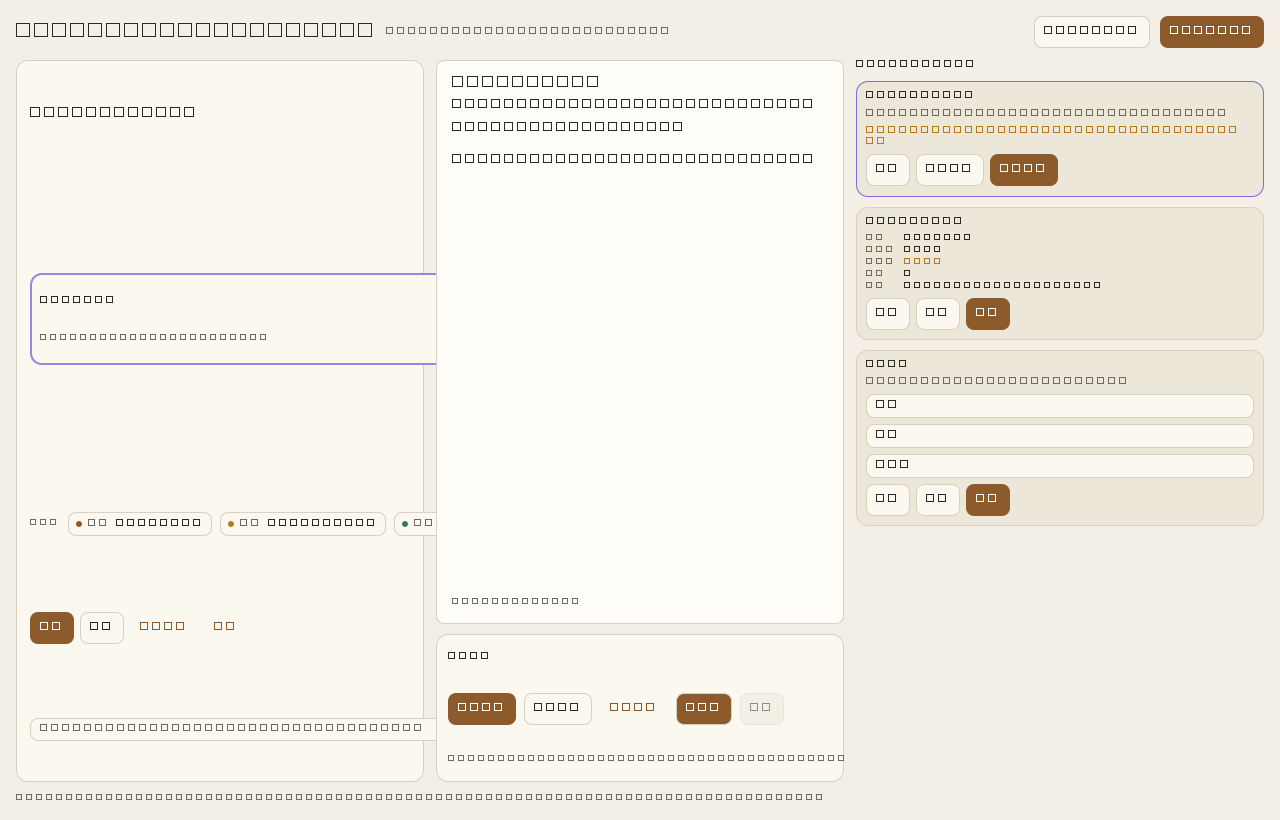
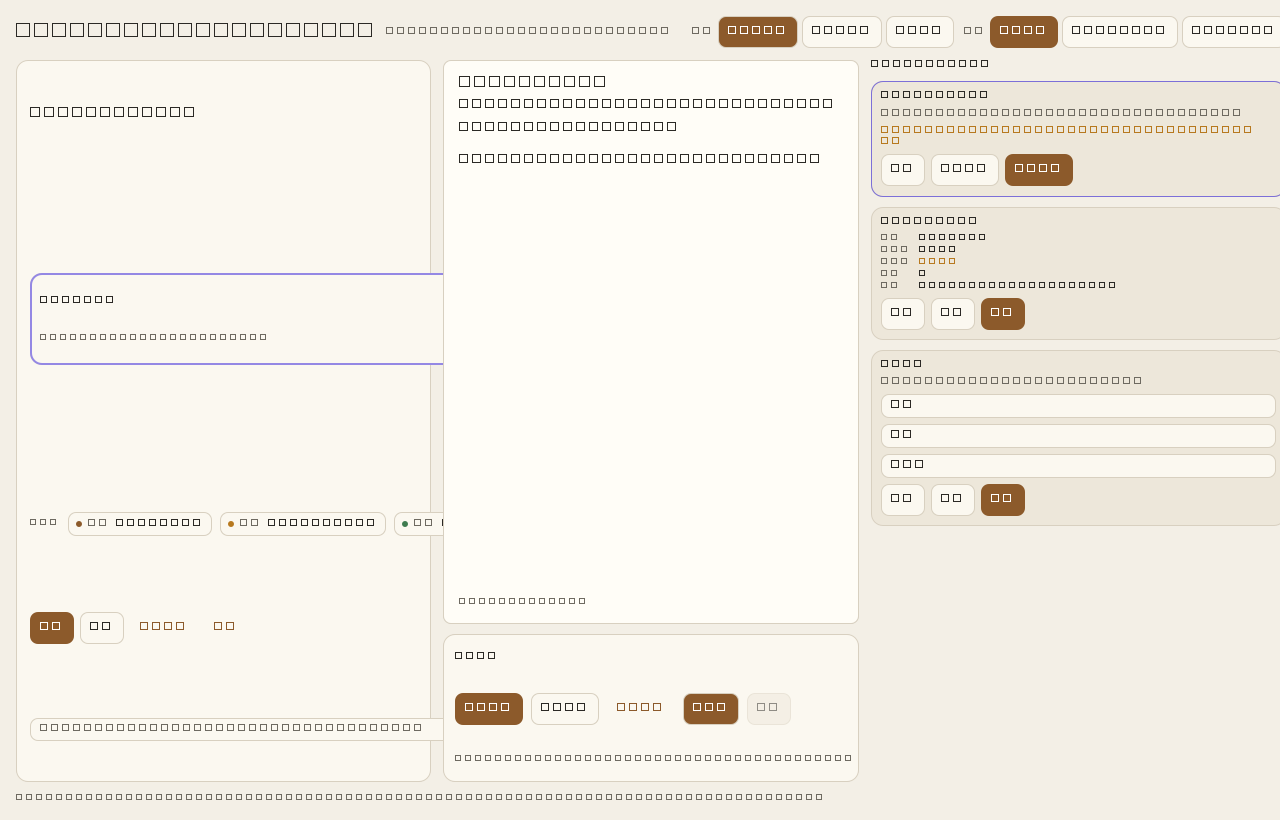
fix(frontend): make Visual V0 theme/quality switchers explicit segments
The quality control was a single small button in the lab header and easy to
miss. Replace theme and quality with three-segment button groups
(paper/light/dark, safe/balanced/premium) that show the active state; add
click-through tests and refresh screenshots.

diff --git a/src/ai_novel_studio/ui_qml/qml/VisualLab.qml b/src/ai_novel_studio/ui_qml/qml/VisualLab.qml
@@ -64,16 +64,43 @@ ApplicationWindow {
             Item {
                 Layout.fillWidth: true
             }
-            AppButton {
-                objectName: "labThemeButton"
-                text: "主题：" + Theme.themeName
-                onClicked: Theme.setTheme(Theme.nextThemeName())
+
+            // 主题：三段式切换（paper / light / dark）
+            RowLayout {
+                spacing: 4
+                Text {
+                    text: "主题"
+                    font.pixelSize: 11
+                    color: Theme.tokens.color.textSecondary
+                }
+                Repeater {
+                    model: ["paper", "light", "dark"]
+                    AppButton {
+                        objectName: "labTheme-" + modelData
+                        text: modelData
+                        selected: Theme.themeName === modelData
+                        onClicked: Theme.setTheme(modelData)
+                    }
+                }
             }
-            AppButton {
-                objectName: "labQualityButton"
-                text: "质量：" + Theme.visualQuality
-                primary: true
-                onClicked: Theme.setVisualQuality(Theme.nextVisualQuality())
+
+            // 质量档：三段式切换（Safe / Balanced / Premium）
+            RowLayout {
+                spacing: 4
+                Text {
+                    text: "质量"
+                    font.pixelSize: 11
+                    color: Theme.tokens.color.textSecondary
+                }
+                Repeater {
+                    model: ["safe", "balanced", "premium"]
+                    AppButton {
+                        objectName: "labQuality-" + modelData
+                        text: modelData
+                        primary: Theme.visualQuality === modelData
+                        onClicked: Theme.setVisualQuality(modelData)
+                    }
+                }
             }
         }
 

diff --git a/tests/ui_qml/test_visual_lab.py b/tests/ui_qml/test_visual_lab.py
@@ -3,7 +3,7 @@
 from pathlib import Path
 
 import pytest
-from PySide6.QtCore import QUrl
+from PySide6.QtCore import QMetaObject, QUrl
 from PySide6.QtQml import QQmlApplicationEngine
 from PySide6.QtQuick import QQuickItem, QQuickWindow
 from pytestqt.qtbot import QtBot
@@ -76,6 +76,11 @@ def test_visual_lab_loads_all_demo_surfaces(qtbot: QtBot) -> None:
         "labFormCard",
         "labStreamingGlow",
         "labStaticGlow",
+        "labTheme-paper",
+        "labTheme-dark",
+        "labQuality-safe",
+        "labQuality-balanced",
+        "labQuality-premium",
     ):
         item = _find_item(content, name)
         assert item is not None, f"missing {name}"
@@ -126,3 +131,23 @@ def test_visual_quality_cycles_safe_balanced_premium(qtbot: QtBot) -> None:
     theme.setVisualQuality("unknown")
     # Invalid quality values fall back to the Balanced default.
     assert theme.property("visualQuality") == "balanced"
+
+
+def test_visual_quality_segment_buttons_switch_quality(qtbot: QtBot) -> None:
+    _, _, theme, window = _load_lab(qtbot)
+    content = _content(window)
+
+    premium = _find_item(content, "labQuality-premium")
+    assert premium is not None
+    QMetaObject.invokeMethod(premium, "clicked")
+    qtbot.waitUntil(lambda: theme.property("visualQuality") == "premium")
+
+    safe = _find_item(content, "labQuality-safe")
+    assert safe is not None
+    QMetaObject.invokeMethod(safe, "clicked")
+    qtbot.waitUntil(lambda: theme.property("visualQuality") == "safe")
+
+    dark = _find_item(content, "labTheme-dark")
+    assert dark is not None
+    QMetaObject.invokeMethod(dark, "clicked")
+    qtbot.waitUntil(lambda: theme.property("themeName") == "dark")
